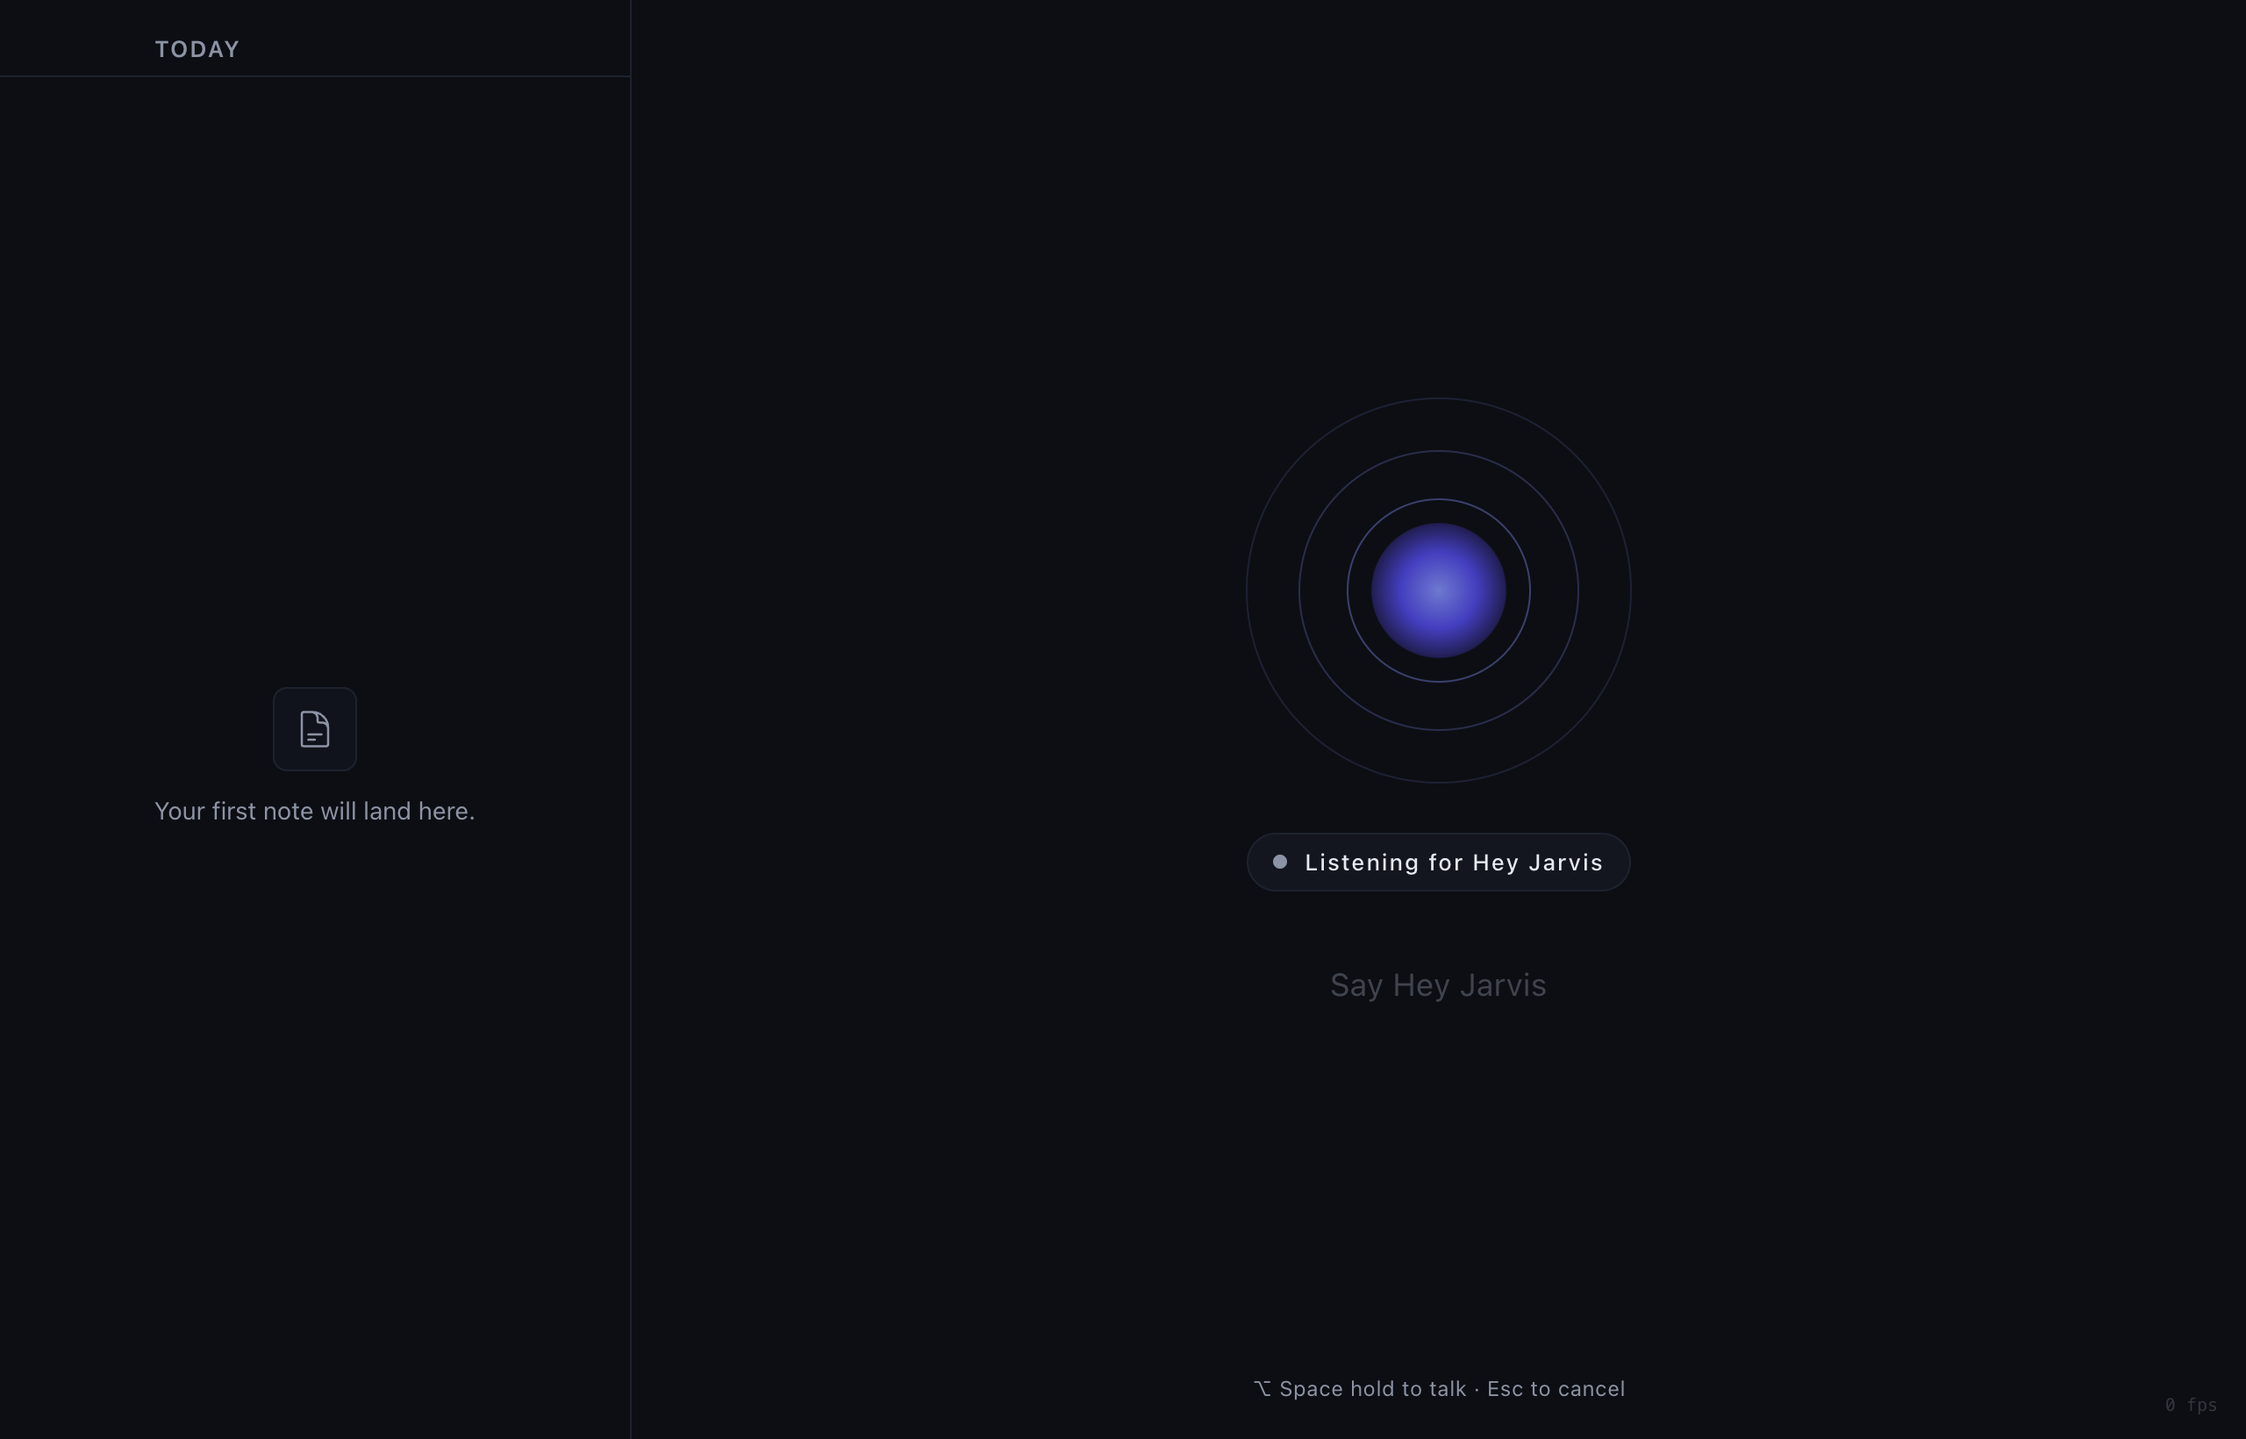
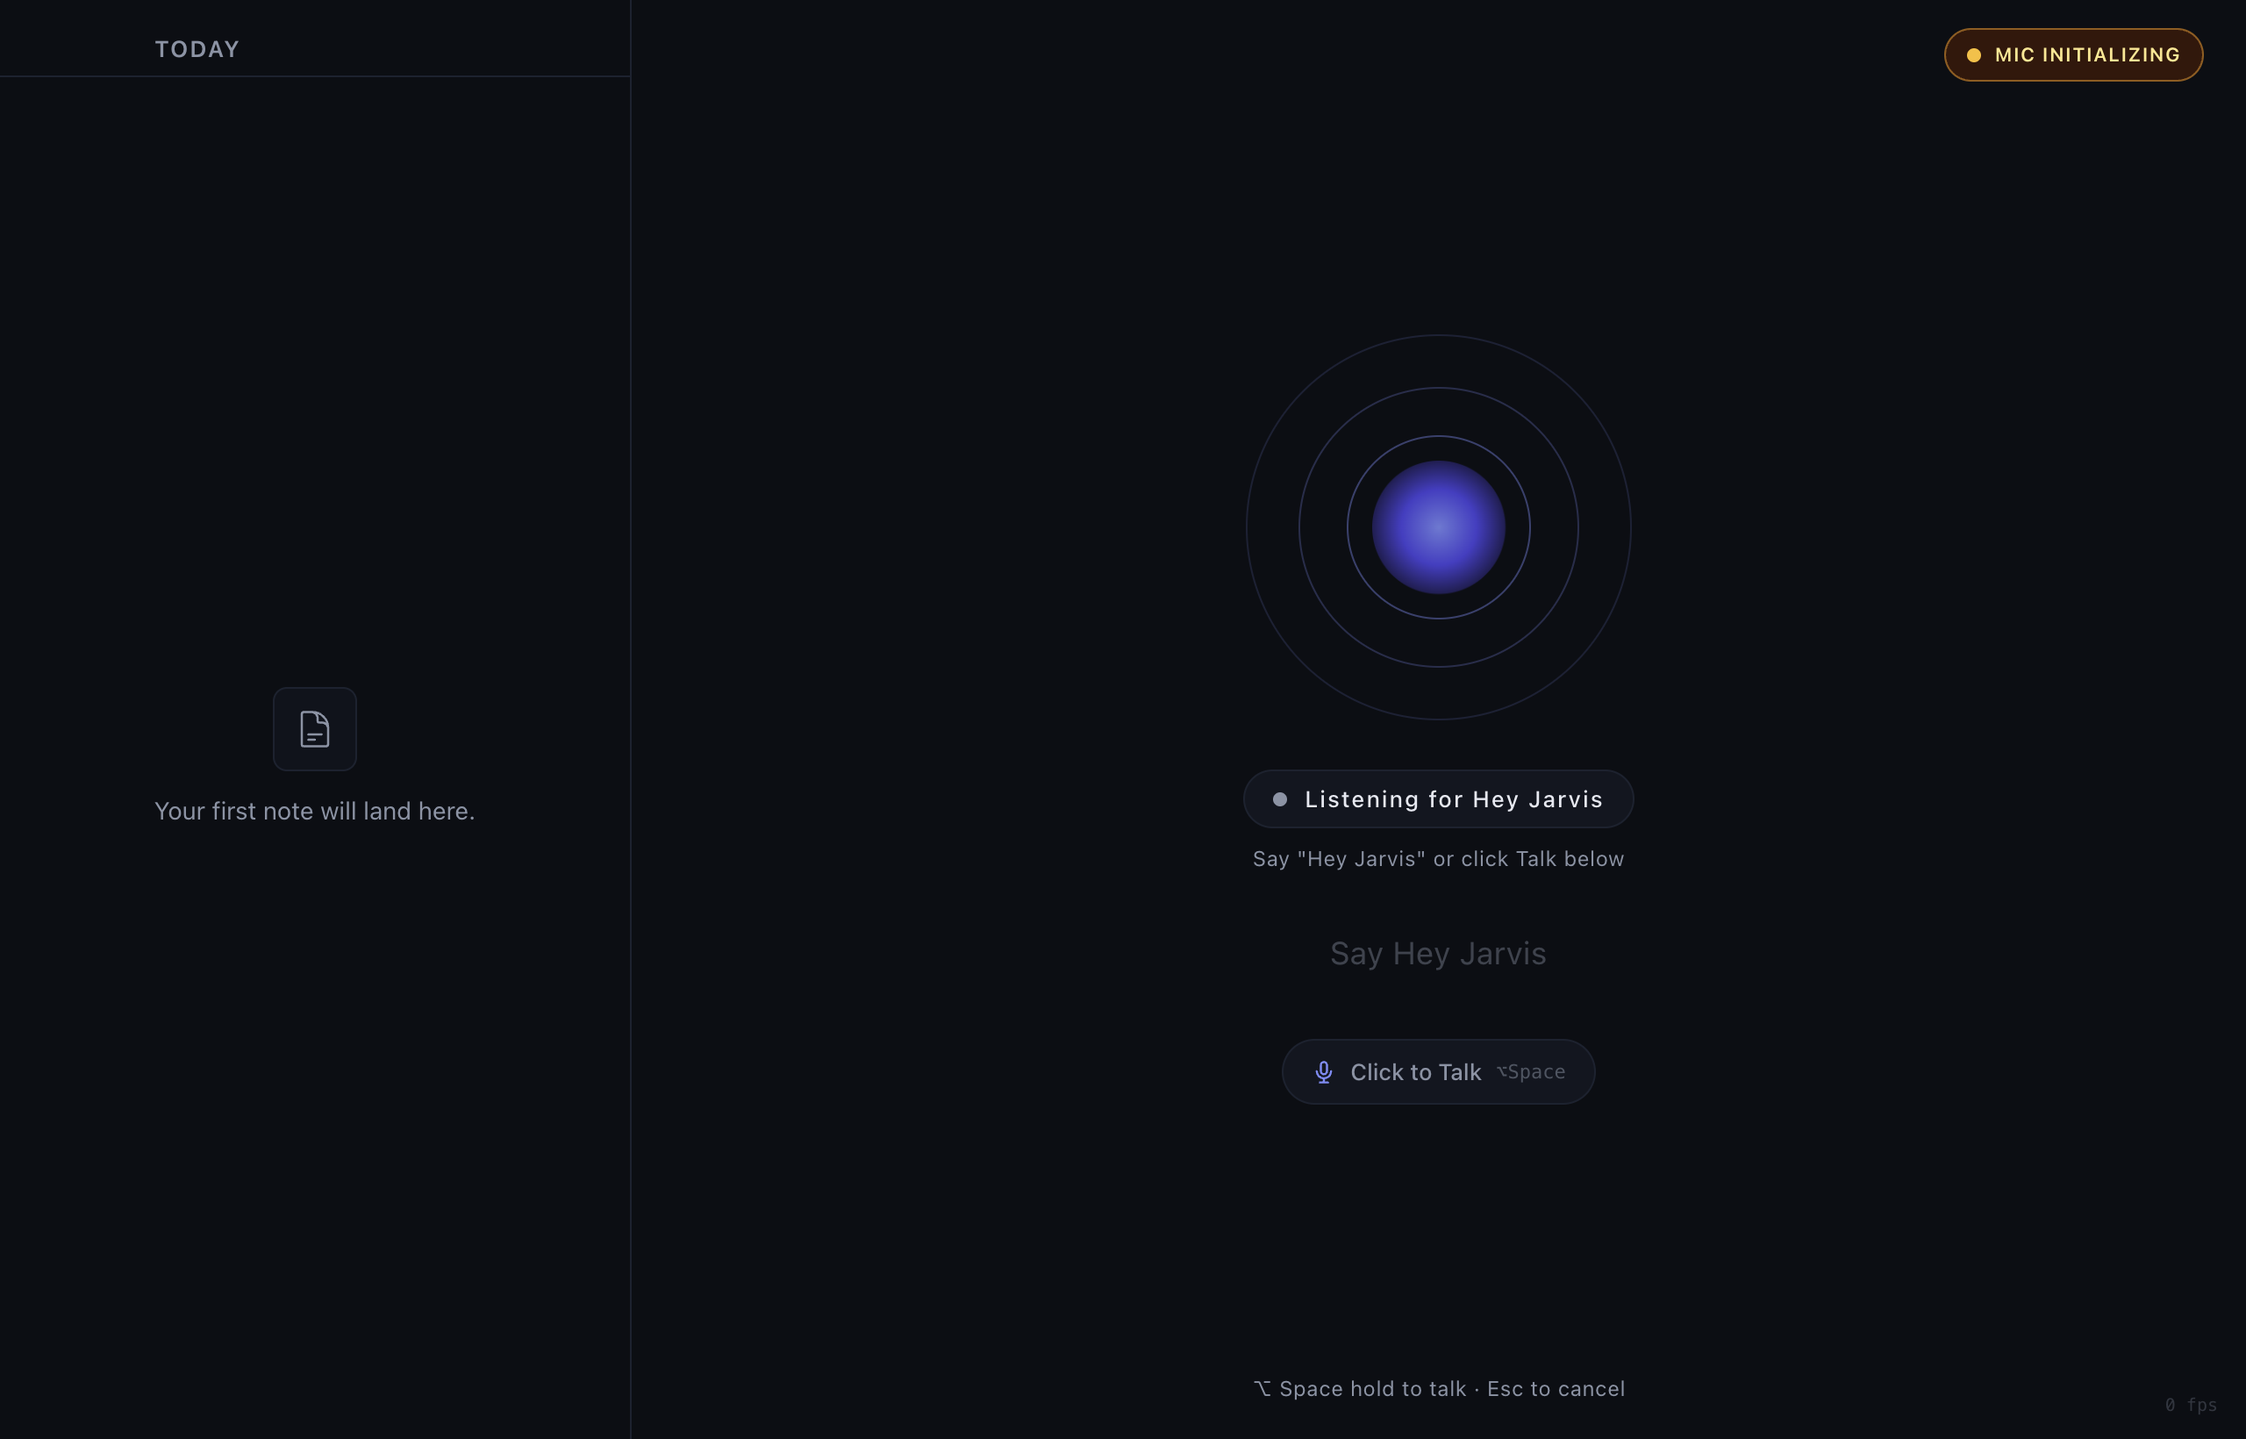
feat: add real-time status visibility, mic activity VU meter, and click-to-talk controls

diff --git a/apps/desktop/src/renderer/src/App.tsx b/apps/desktop/src/renderer/src/App.tsx
@@ -165,6 +165,20 @@ export const App: React.FC = () => {
     }
   }, [])
 
+  // Handle manual Click-to-Talk / Finish Note toggle
+  const handleToggleListening = useCallback((): void => {
+    if (orbState === 'idle') {
+      setOrbState('listening')
+      wsClientRef.current?.sendJson({ t: 'ptt', on: true })
+      setTranscriptText('')
+      setShowQuietHint(false)
+      playWakeChime()
+    } else if (orbState === 'listening') {
+      setOrbState('thinking')
+      wsClientRef.current?.sendJson({ t: 'ptt', on: false })
+    }
+  }, [orbState, playWakeChime])
+
   // Trigger preflight checks
   const triggerPreflight = useCallback(async (): Promise<void> => {
     setPreflightOpen(true)
@@ -389,14 +403,37 @@ export const App: React.FC = () => {
   const chipConfig = useMemo(() => {
     switch (orbState) {
       case 'listening':
-        return { text: 'Listening', dotClass: 'bg-[#7C8CF8]' }
+        return {
+          title: 'Listening · Recording Note',
+          subtitle: 'Speak your note now · will save when you pause',
+          dotClass: 'bg-rose-500 animate-pulse',
+          containerClass:
+            'bg-rose-950/30 border-rose-500/60 shadow-[0_0_24px_rgba(244,63,94,0.3)] text-[#E6E9F2]'
+        }
       case 'thinking':
-        return { text: 'Thinking', dotClass: 'bg-[#7C8CF8] animate-pulse' }
+        return {
+          title: 'Thinking',
+          subtitle: 'Formatting note with Ollama...',
+          dotClass: 'bg-[#7C8CF8] animate-pulse',
+          containerClass:
+            'bg-[#121620] border-[#7C8CF8]/50 shadow-[0_0_16px_rgba(124,140,248,0.2)] text-[#E6E9F2]'
+        }
       case 'speaking':
-        return { text: 'Speaking', dotClass: 'bg-[#34D399]' }
+        return {
+          title: 'Speaking',
+          subtitle: 'Note created · saying "Noted."',
+          dotClass: 'bg-[#34D399]',
+          containerClass:
+            'bg-emerald-950/30 border-emerald-500/40 shadow-[0_0_16px_rgba(52,211,153,0.2)] text-emerald-200'
+        }
       case 'idle':
       default:
-        return { text: 'Listening for Hey Jarvis', dotClass: 'bg-[#8A93A6]' }
+        return {
+          title: 'Listening for Hey Jarvis',
+          subtitle: 'Say "Hey Jarvis" or click Talk below',
+          dotClass: 'bg-[#8A93A6]',
+          containerClass: 'bg-[#121620] border-[#1C2230] text-[#E6E9F2]'
+        }
     }
   }, [orbState])
 
@@ -451,8 +488,86 @@ export const App: React.FC = () => {
 
       {/* Right Stage */}
       <main className="flex-1 h-full flex flex-col relative items-center justify-center p-8 bg-[#0B0E14]">
-        {/* Top Header Controls */}
-        <div className="absolute top-4 right-6 flex items-center space-x-3">
+        {/* Top Glowing Edge Bar when Recording */}
+        {orbState === 'listening' && (
+          <div className="absolute top-0 inset-x-0 h-[2px] bg-gradient-to-r from-transparent via-rose-500/80 to-transparent animate-pulse pointer-events-none" />
+        )}
+
+        {/* Top Header Controls: Live Mic & Engine Status */}
+        <div className="absolute top-4 right-6 flex items-center space-x-3 z-10">
+          {/* Live Mic Activity & Listening Indicator */}
+          <div
+            className={`inline-flex items-center px-3 py-1.5 rounded-full text-[12px] font-medium border transition-all duration-200 ${
+              orbState === 'listening'
+                ? 'bg-rose-950/70 border-rose-500/60 text-rose-200 shadow-[0_0_14px_rgba(244,63,94,0.35)]'
+                : micStatus === 'granted'
+                  ? 'bg-[#121620] border-[#1C2230] text-[#E6E9F2]'
+                  : 'bg-amber-950/70 border-amber-500/50 text-amber-200'
+            }`}
+          >
+            <span className="relative flex h-2 w-2 mr-2">
+              {orbState === 'listening' ? (
+                <>
+                  <span className="animate-ping absolute inline-flex h-full w-full rounded-full bg-rose-400 opacity-75" />
+                  <span className="relative inline-flex rounded-full h-2 w-2 bg-rose-500" />
+                </>
+              ) : micStatus === 'granted' ? (
+                <>
+                  <span
+                    className={`absolute inline-flex h-full w-full rounded-full transition-opacity ${
+                      rms > 0.03 ? 'animate-ping bg-emerald-400 opacity-75' : 'opacity-0'
+                    }`}
+                  />
+                  <span
+                    className={`relative inline-flex rounded-full h-2 w-2 transition-colors duration-200 ${
+                      rms > 0.03 ? 'bg-[#34D399]' : 'bg-[#8A93A6]'
+                    }`}
+                  />
+                </>
+              ) : (
+                <span className="relative inline-flex rounded-full h-2 w-2 bg-amber-400" />
+              )}
+            </span>
+
+            <span className="tracking-[0.06em] text-[11px] font-semibold uppercase">
+              {orbState === 'listening'
+                ? 'Recording Note'
+                : micStatus === 'granted'
+                  ? 'Mic Active'
+                  : 'Mic Initializing'}
+            </span>
+
+            {/* Real-time 3-bar audio VU meter */}
+            {micStatus === 'granted' && (
+              <div className="flex items-end space-x-[2px] h-3 ml-2.5 pb-[1px]">
+                <div
+                  className={`w-[2px] rounded-full transition-all duration-75 ${
+                    orbState === 'listening' ? 'bg-rose-400' : 'bg-[#7C8CF8]'
+                  }`}
+                  style={{
+                    height: `${Math.max(3, Math.min(12, 3 + rms * 60))}px`
+                  }}
+                />
+                <div
+                  className={`w-[2px] rounded-full transition-all duration-75 ${
+                    orbState === 'listening' ? 'bg-rose-400' : 'bg-[#7C8CF8]'
+                  }`}
+                  style={{
+                    height: `${Math.max(3, Math.min(12, 3 + rms * 90))}px`
+                  }}
+                />
+                <div
+                  className={`w-[2px] rounded-full transition-all duration-75 ${
+                    orbState === 'listening' ? 'bg-rose-400' : 'bg-[#7C8CF8]'
+                  }`}
+                  style={{
+                    height: `${Math.max(3, Math.min(12, 3 + rms * 45))}px`
+                  }}
+                />
+              </div>
+            )}
+          </div>
+
           {sidecarStatus === 'crashed' && (
             <span className="inline-flex items-center px-2.5 py-1 rounded-full text-[11px] font-medium bg-red-950/80 border border-red-500/50 text-red-300">
               <span className="w-1.5 h-1.5 mr-1.5 rounded-full bg-red-400 animate-ping" />
@@ -486,21 +601,34 @@ export const App: React.FC = () => {
             </button>
           </div>
         ) : (
-          /* Live Stage: Orb + Chip + Word-by-Word Transcript */
+          /* Live Stage: Orb + Chip + Word-by-Word Transcript + Controls */
           <div className="flex flex-col items-center justify-center max-w-xl text-center w-full">
             {/* 220 px Orb */}
             <Orb state={orbState} rms={rms} />
 
             {/* State Chip: Pill, 1px border, 13px label with 0.08em letter-spacing */}
-            <div className="inline-flex items-center px-3.5 py-1.5 rounded-full bg-[#121620] border border-[#1C2230] mt-7 transition-all duration-200">
-              <span className={`w-2 h-2 mr-2.5 rounded-full transition-colors duration-200 ${chipConfig.dotClass}`} />
-              <span className="text-[13px] tracking-[0.08em] font-medium text-[#E6E9F2]">
-                {chipConfig.text}
+            <div
+              className={`inline-flex items-center px-4 py-1.5 rounded-full mt-7 transition-all duration-200 border ${chipConfig.containerClass}`}
+            >
+              <span
+                className={`w-2 h-2 mr-2.5 rounded-full transition-colors duration-200 ${chipConfig.dotClass}`}
+              />
+              <span className="text-[13px] tracking-[0.08em] font-medium">
+                {chipConfig.title}
               </span>
             </div>
 
+            {/* Subtitle helper giving unambiguous instruction */}
+            <p
+              className={`text-[12px] mt-2 tracking-wide transition-all duration-200 ${
+                orbState === 'listening' ? 'text-rose-300/90 font-medium' : 'text-[#8A93A6]'
+              }`}
+            >
+              {chipConfig.subtitle}
+            </p>
+
             {/* Transcript: Center stage, max 2 lines, 22px / 1.5, fades in per word (40 ms stagger) */}
-            <div className="min-h-[66px] max-h-[66px] flex items-center justify-center mt-5 px-6 max-w-[560px] text-center overflow-hidden">
+            <div className="min-h-[66px] max-h-[66px] flex items-center justify-center mt-3 px-6 max-w-[560px] text-center overflow-hidden">
               {words.length > 0 ? (
                 <p className="text-[22px] leading-[1.5] text-[#E6E9F2] font-normal line-clamp-2">
                   {words.map((word, idx) => (
@@ -519,6 +647,67 @@ export const App: React.FC = () => {
                 </p>
               ) : null}
             </div>
+
+            {/* Interactive Control: Click to Talk / Finish Note */}
+            {orbState === 'idle' && (
+              <div className="mt-4 flex items-center justify-center">
+                <button
+                  type="button"
+                  onClick={handleToggleListening}
+                  className="inline-flex items-center space-x-2 px-4 py-2 rounded-full bg-[#121620] hover:bg-[#181E2C] border border-[#1C2230] hover:border-[#7C8CF8]/40 text-[#8A93A6] hover:text-[#E6E9F2] text-[13px] font-medium transition-all duration-150 shadow-sm active:scale-95 group cursor-pointer"
+                  title="Click to start recording note (or hold Option+Space)"
+                >
+                  <svg
+                    className="w-3.5 h-3.5 text-[#7C8CF8] group-hover:scale-110 transition-transform"
+                    fill="none"
+                    stroke="currentColor"
+                    viewBox="0 0 24 24"
+                  >
+                    <path
+                      strokeLinecap="round"
+                      strokeLinejoin="round"
+                      strokeWidth={2}
+                      d="M19 11a7 7 0 01-7 7m0 0a7 7 0 01-7-7m7 7v4m0 0H8m4 0h4m-4-8a3 3 0 01-3-3V5a3 3 0 116 0v6a3 3 0 01-3 3z"
+                    />
+                  </svg>
+                  <span>Click to Talk</span>
+                  <span className="text-[11px] font-mono text-[#8A93A6]/50 group-hover:text-[#8A93A6]">
+                    ⌥Space
+                  </span>
+                </button>
+              </div>
+            )}
+
+            {orbState === 'listening' && (
+              <div className="mt-4 flex items-center justify-center space-x-3">
+                <button
+                  type="button"
+                  onClick={handleToggleListening}
+                  className="inline-flex items-center space-x-2 px-5 py-2 rounded-full bg-[#7C8CF8] hover:bg-[#6878ea] text-[#0B0E14] text-[13px] font-semibold transition-all duration-150 shadow-[0_0_16px_rgba(124,140,248,0.45)] active:scale-95 cursor-pointer"
+                  title="Click to finish and save note"
+                >
+                  <span className="w-2.5 h-2.5 rounded-sm bg-[#0B0E14]" />
+                  <span>Finish Note &amp; Save</span>
+                </button>
+                <button
+                  type="button"
+                  onClick={handleCancel}
+                  className="inline-flex items-center px-3.5 py-2 rounded-full border border-[#1C2230] hover:bg-[#181E2C] text-[#8A93A6] hover:text-[#E6E9F2] text-[12px] font-medium transition-colors cursor-pointer"
+                  title="Cancel note recording"
+                >
+                  Cancel <span className="font-mono text-[10px] ml-1.5 text-[#8A93A6]/60">Esc</span>
+                </button>
+              </div>
+            )}
+
+            {orbState === 'thinking' && (
+              <div className="mt-4 flex items-center justify-center">
+                <div className="inline-flex items-center space-x-2.5 px-4 py-2 rounded-full bg-[#121620]/60 border border-[#1C2230] text-[#8A93A6] text-[12px]">
+                  <div className="w-3.5 h-3.5 rounded-full border-2 border-[#7C8CF8] border-t-transparent animate-spin" />
+                  <span>Creating note...</span>
+                </div>
+              </div>
+            )}
           </div>
         )}
 

diff --git a/apps/desktop/src/renderer/src/Orb.tsx b/apps/desktop/src/renderer/src/Orb.tsx
@@ -89,11 +89,19 @@ export const Orb: React.FC<OrbProps> = ({ state, rms }) => {
           state === 'idle'
             ? 'border-[#7C8CF8]/40'
             : state === 'listening'
-              ? 'border-[#7C8CF8]/70'
+              ? 'border-[#7C8CF8]/70 shadow-[0_0_18px_rgba(124,140,248,0.3)]'
               : state === 'thinking'
                 ? 'border-[#7C8CF8]/65'
                 : 'border-[#34D399]/75'
         }`}
+        style={
+          state === 'idle' && smoothedRms > 0.012
+            ? {
+                borderColor: `rgba(124, 140, 248, ${Math.min(0.85, 0.4 + smoothedRms * 4.0)})`,
+                boxShadow: `0 0 ${Math.min(18, 4 + smoothedRms * 70)}px rgba(124, 140, 248, 0.35)`
+              }
+            : undefined
+        }
       />
 
       {/* Radial Gradient Core (~76 px) */}
@@ -102,7 +110,7 @@ export const Orb: React.FC<OrbProps> = ({ state, rms }) => {
           state === 'idle'
             ? 'bg-[radial-gradient(circle,_#7C8CF8_0%,_#4F46E5_40%,_#1E1B4B_75%,_transparent_100%)] opacity-85 animate-orb-idle-core'
             : state === 'listening'
-              ? 'bg-[radial-gradient(circle,_#7C8CF8_0%,_#6366F1_45%,_#1E1B4B_80%,_transparent_100%)] opacity-95'
+              ? 'bg-[radial-gradient(circle,_#7C8CF8_0%,_#6366F1_45%,_#1E1B4B_80%,_transparent_100%)] opacity-95 shadow-[0_0_24px_rgba(124,140,248,0.5)]'
               : state === 'thinking'
                 ? 'bg-[radial-gradient(circle,_#A5B4FC_0%,_#7C8CF8_45%,_#312E81_85%,_transparent_100%)] animate-orb-thinking-core'
                 : 'bg-[radial-gradient(circle,_#34D399_0%,_#059669_50%,_#064E3B_85%,_transparent_100%)] opacity-95'
@@ -117,7 +125,10 @@ export const Orb: React.FC<OrbProps> = ({ state, rms }) => {
             const distFromCenter = Math.abs(i - 11.5) / 11.5
             // Parabolic curve: highest in center, tapering toward edges
             const curve = Math.cos(distFromCenter * (Math.PI / 2.2))
-            const rawHeight = Math.max(4, Math.min(48, smoothedRms * 56 * curve + 3))
+            // Non-linear gain for human speech dynamics (0.01 to 0.15 RMS)
+            const voiceIntensity = Math.min(1.0, Math.max(0, (smoothedRms - 0.003) * 7.5))
+            const nonLinearGain = Math.pow(voiceIntensity, 0.72)
+            const rawHeight = Math.max(5, Math.min(52, 5 + nonLinearGain * 45 * curve))
 
             return (
               <div
